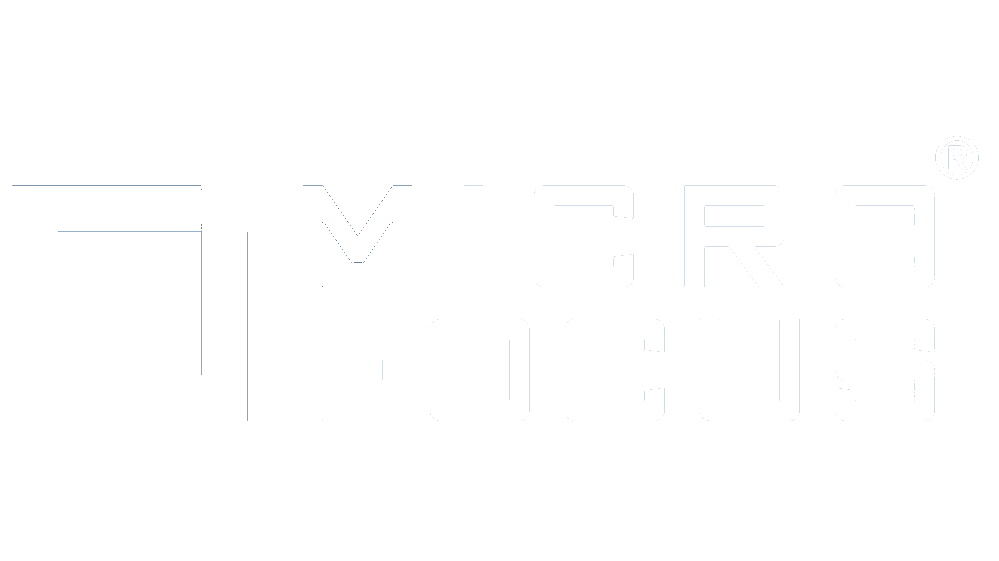
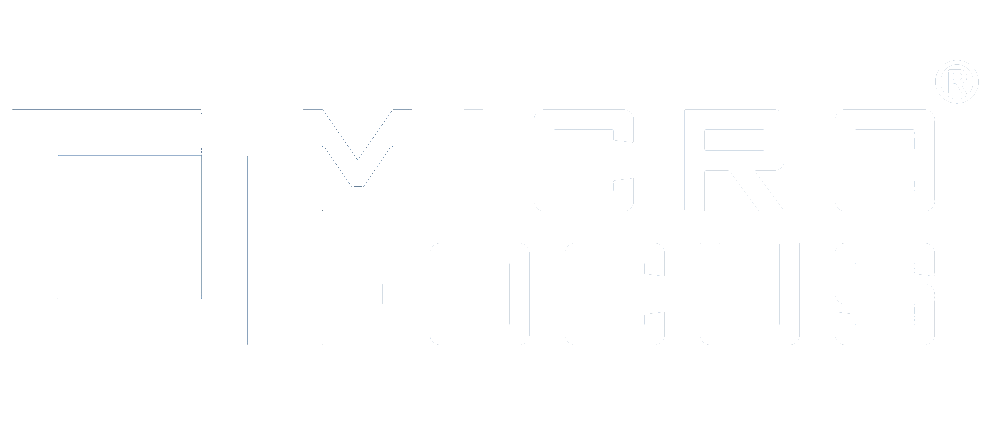
Email
Formatting to the emails

Changed region(s): [[0.0621, 0.325, 0.1862, 0.3545], [0.6827, 0.325, 0.7758, 0.3545], [0.7137, 0.3841, 0.7447, 0.4136]]

diff --git a/ALM Upgrade/Content/email-start.html b/ALM Upgrade/Content/email-start.html
@@ -14,8 +14,8 @@
 
                 <table align='center' border='0' cellpadding='0' cellspacing='0' width='700' style='box-shadow: 0px 0px 20px #888888;'>
                     <tr>
-                        <td align='center' bgcolor='' style='padding: 10px 0 10px 0;background-image: linear-gradient(to top,#1ab1c7,#2cc4c4);'>
-                            <img src='http://upgradetool.azurewebsites.net/Content/image.png' alt='Creating Email Magic' width='500' height='230' style='display: block;' />
+                        <td align='center' bgcolor='' style='padding: 5px 0 5px 0;background-image: linear-gradient(to top,#1ab1c7,#2cc4c4);'>
+                            <img src='http://upgradetool.azurewebsites.net/Content/image.png' alt='Creating Email Magic' width='500' height='200' style='display: block;' />
                         </td>
                     </tr>
                     <tr>
